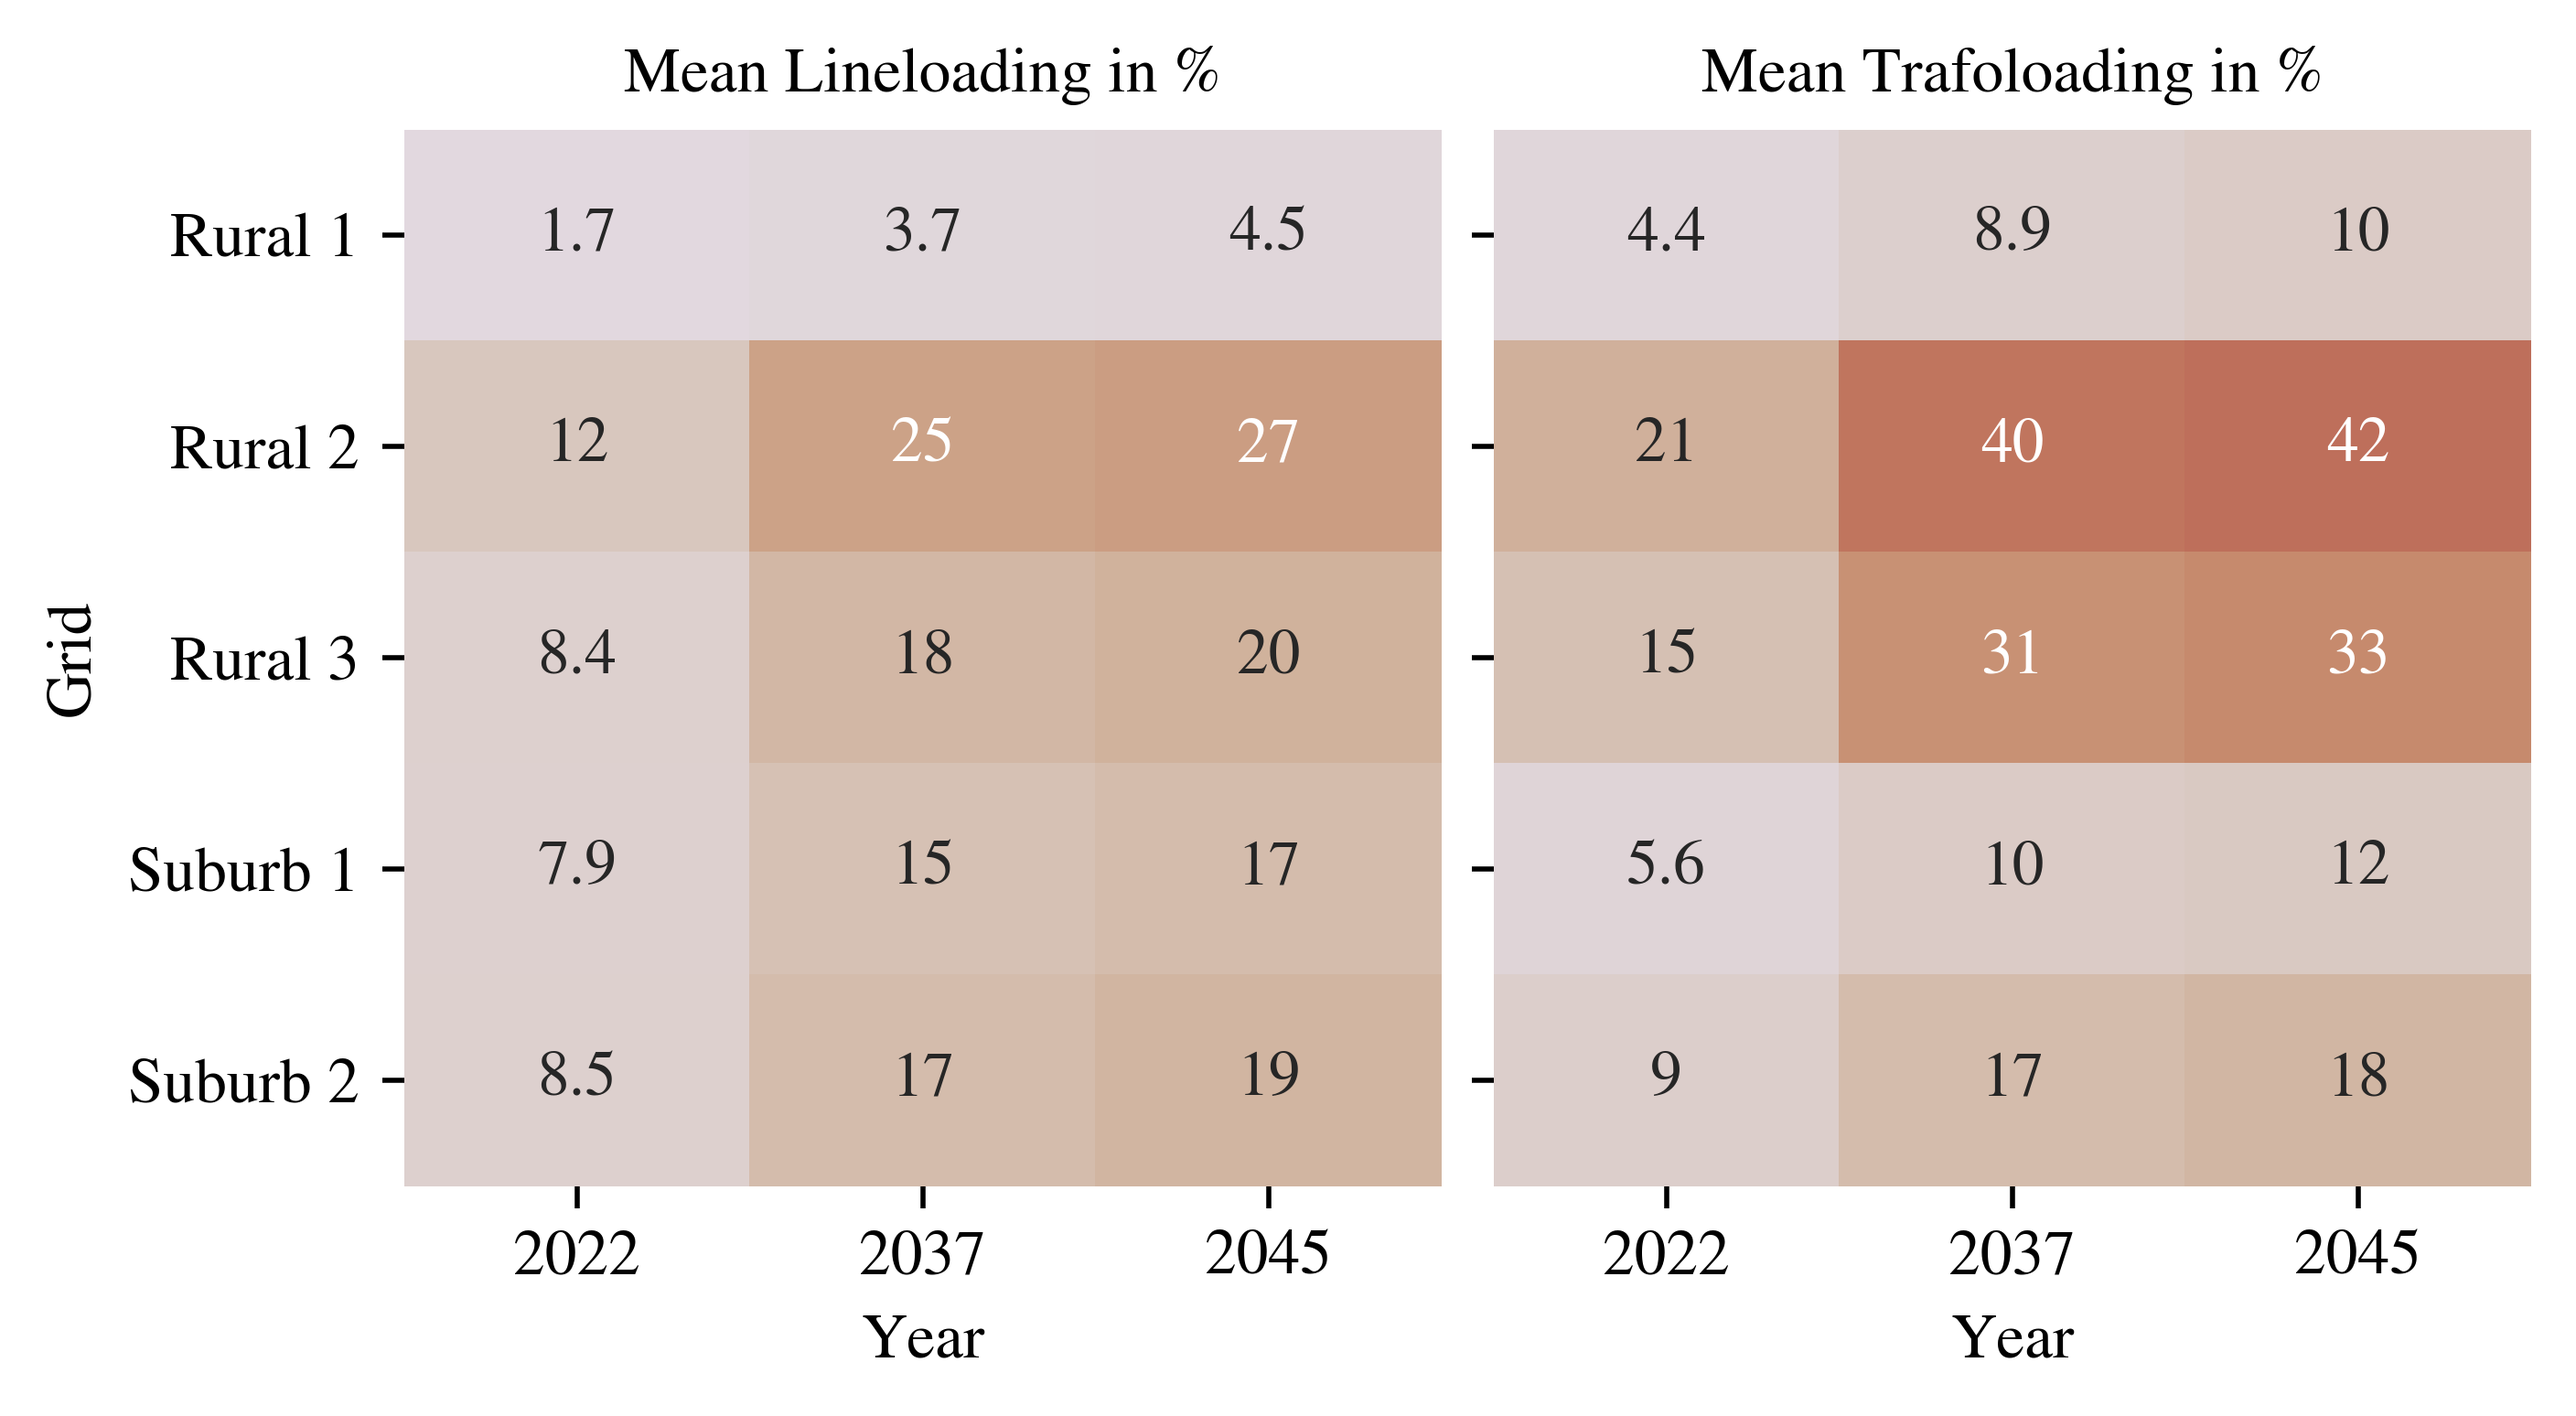
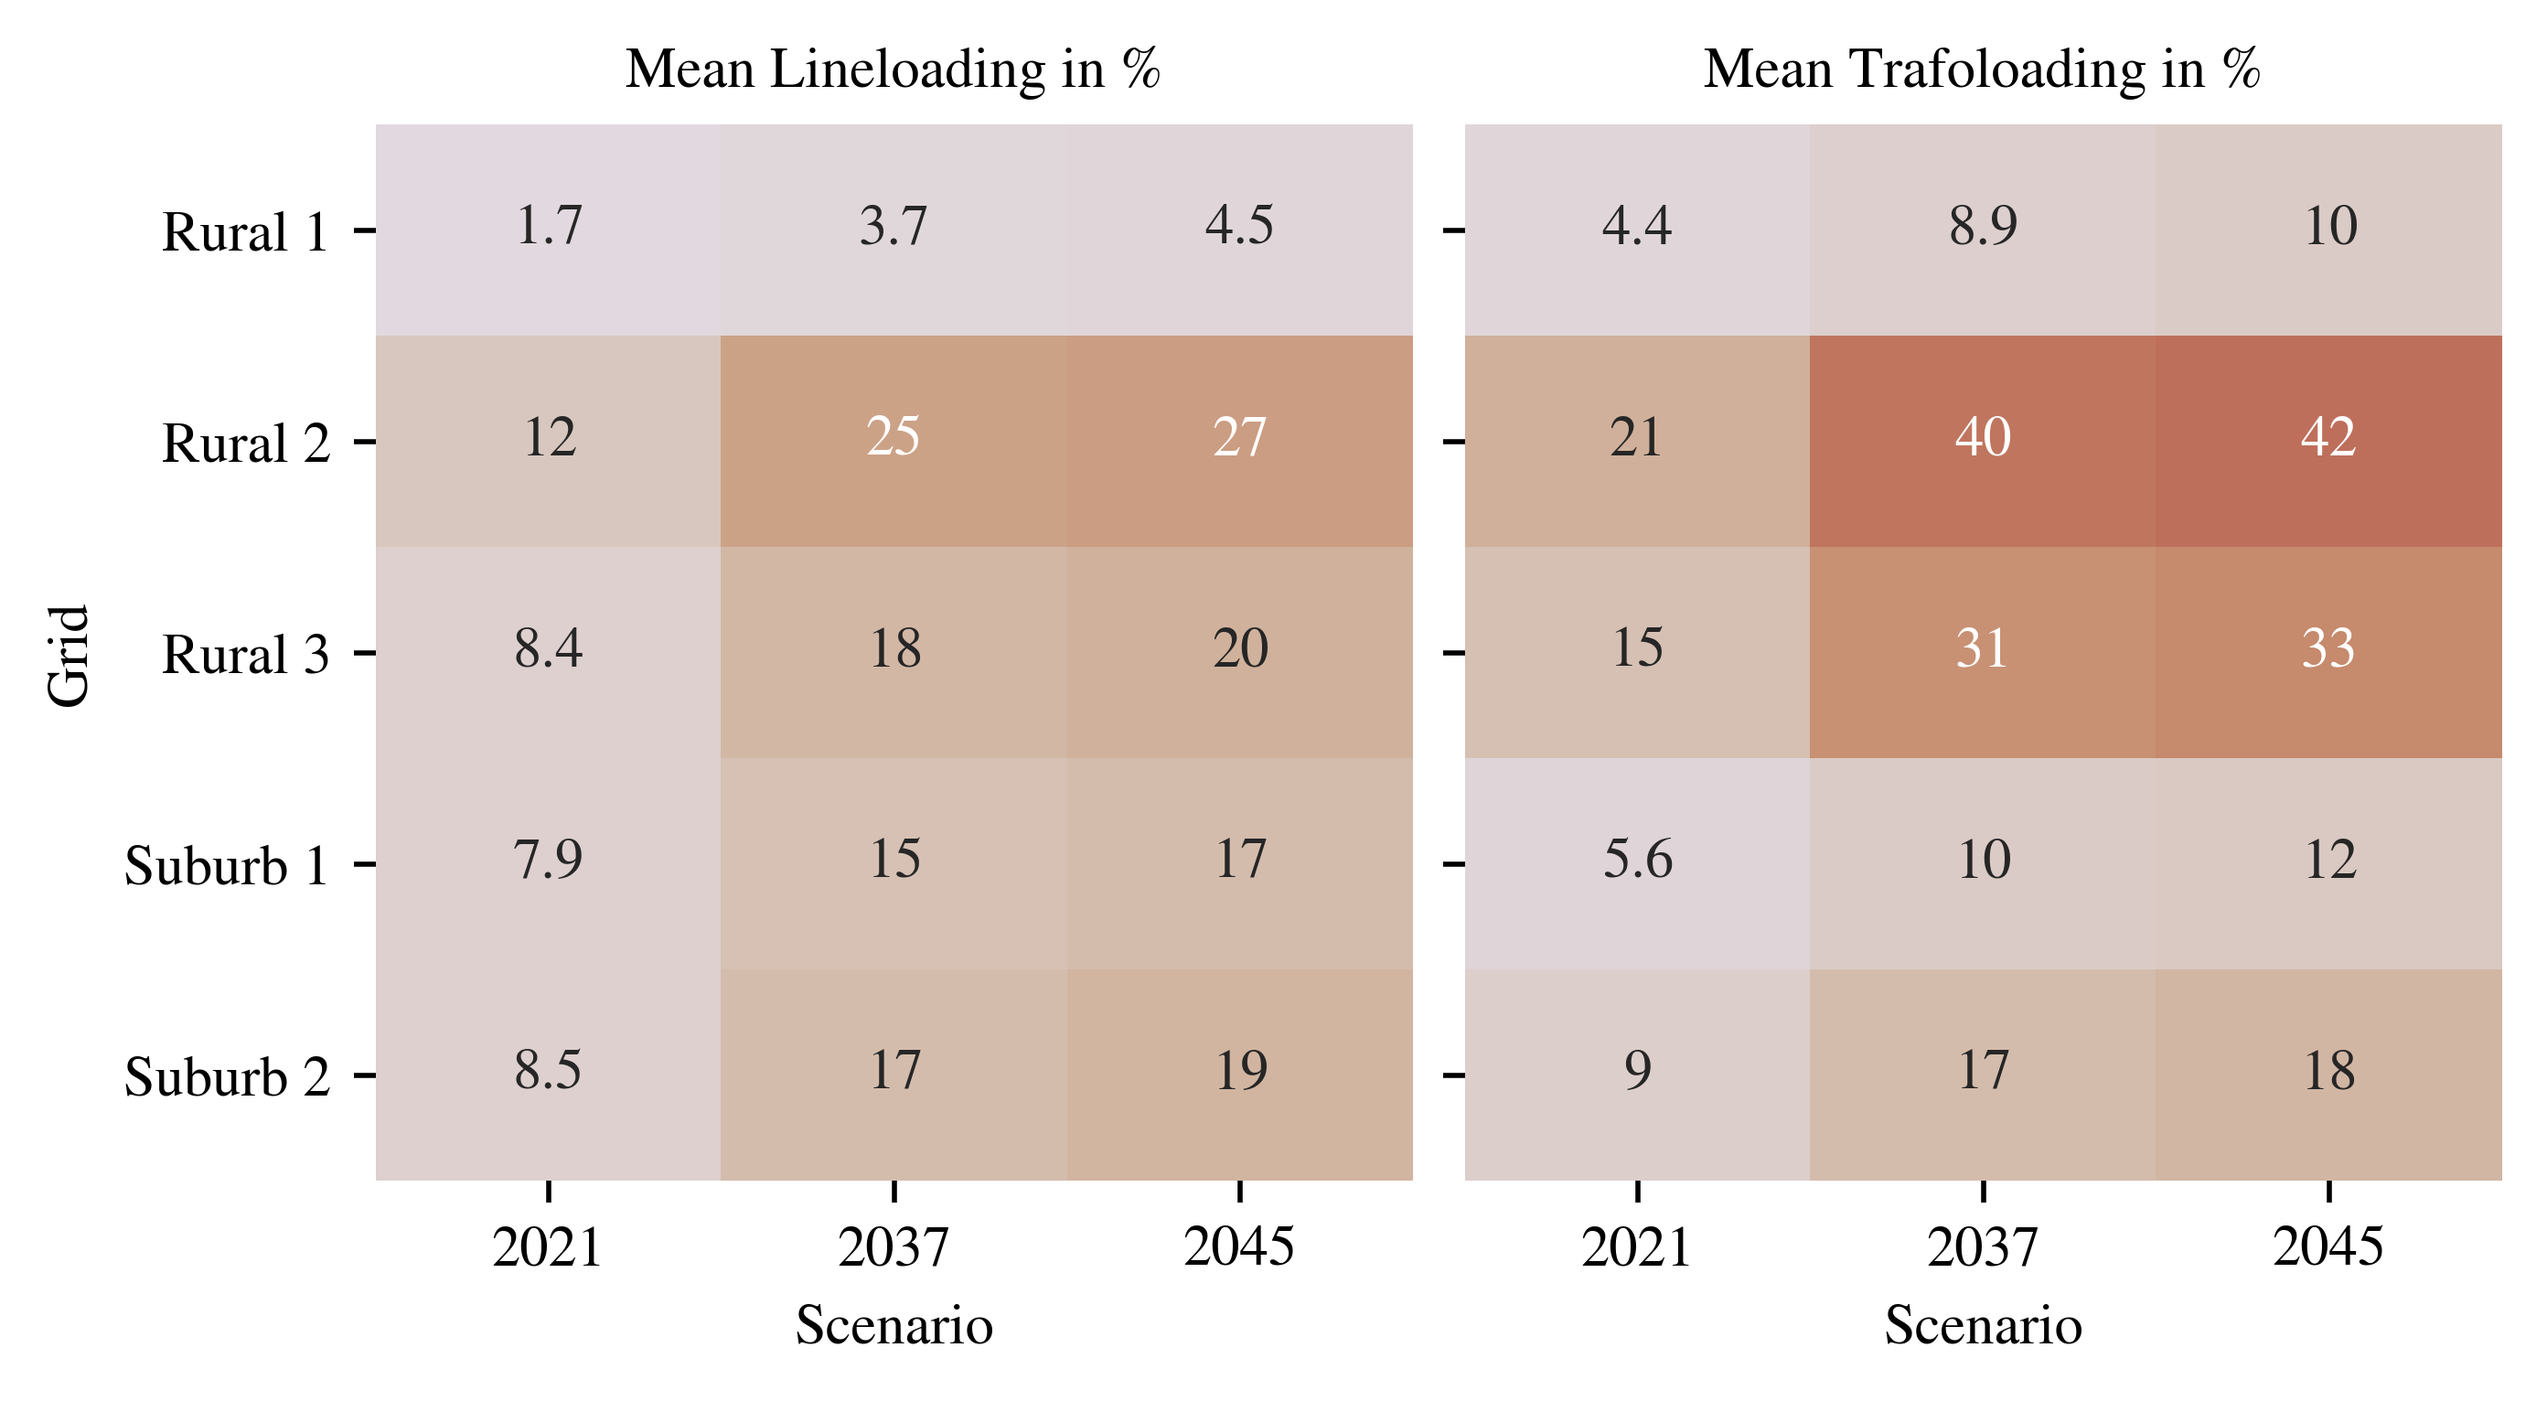
Add grafics

diff --git a/src/main_EVA.py b/src/main_EVA.py
@@ -110,7 +110,7 @@ evaluation.plot_grid_issus_over_time_subplot(eva1=eva['s4101110n8winter'], eva2=
 evaluation.plot_grid_issus_over_time(eva['s4101110n8summer'], save_fig_dir=save_fig_dir+ 'n8_summer_plot_grid_issus_over_time_subplot_n8_winter_full.png')
 '''
 # --- Power and Components loading --- #
-'''
+#'''
 #scenarios = ['4101110', '6111110', '6121110', '6131110']
 #scenarios = ['1000000', '4101110', '6131110', '8133310']
 scenarios = ['C111010', 'C111410', 'C111510', 'C111610', 'C131710']#, 'B111410','A111410'
@@ -120,10 +120,10 @@ eva = load_scenario_data(scenarios, grids=['n8'], seasons=['winter','summer','sp
 
 #evaluation.plot_residualload_grid_issues_subplot_overall_eva_3_plots(eva1=eva['sA111410n8winter'], eva2=eva['sB111410n8winter'], eva3=eva['sC111410n8winter'], save_fig_dir=save_fig_dir+ 'res_grid_sABC_winter_3plots.png')
 evaluation.plot_residualload_grid_issues_subplot_overall_eva_4_plots(eva1=eva['sC111410n8winter'], eva2=eva['sC111510n8winter'], eva3=eva['sC111610n8winter'], eva4=eva['sC131710n8winter'], save_fig_dir=save_fig_dir+ 'res_grid_s4567_C_winter_4plots.png')
-evaluation.plot_residualload_grid_issues_subplot_overall_eva_4_plots(eva1=eva['sC111410n8summer'], eva2=eva['sC111510n8summer'], eva3=eva['sC111610n8summer'], eva4=eva['sC131710n8summer'], save_fig_dir=save_fig_dir+ 'res_grid_s4567_C_summer_4plots.png')
-evaluation.plot_residualload_grid_issues_subplot_overall_eva_4_plots(eva1=eva['sC111410n8spring'], eva2=eva['sC111510n8spring'], eva3=eva['sC111610n8spring'], eva4=eva['sC131710n8spring'], save_fig_dir=save_fig_dir+ 'res_grid_s4567_C_spring_4plots.png')
-evaluation.plot_residualload_grid_issues_subplot_overall_eva_4_plots(eva1=eva['sC111410n8autumn'], eva2=eva['sC111510n8autumn'], eva3=eva['sC111610n8autumn'], eva4=eva['sC131710n8autumn'], save_fig_dir=save_fig_dir+ 'res_grid_s4567_C_autumn_4plots.png')
-'''
+#evaluation.plot_residualload_grid_issues_subplot_overall_eva_4_plots(eva1=eva['sC111410n8summer'], eva2=eva['sC111510n8summer'], eva3=eva['sC111610n8summer'], eva4=eva['sC131710n8summer'], save_fig_dir=save_fig_dir+ 'res_grid_s4567_C_summer_4plots.png')
+#evaluation.plot_residualload_grid_issues_subplot_overall_eva_4_plots(eva1=eva['sC111410n8spring'], eva2=eva['sC111510n8spring'], eva3=eva['sC111610n8spring'], eva4=eva['sC131710n8spring'], save_fig_dir=save_fig_dir+ 'res_grid_s4567_C_spring_4plots.png')
+#evaluation.plot_residualload_grid_issues_subplot_overall_eva_4_plots(eva1=eva['sC111410n8autumn'], eva2=eva['sC111510n8autumn'], eva3=eva['sC111610n8autumn'], eva4=eva['sC131710n8autumn'], save_fig_dir=save_fig_dir+ 'res_grid_s4567_C_autumn_4plots.png')
+#'''
 
 
 # --- SOCs --- #
@@ -166,7 +166,7 @@ eva = load_scenario_data(scenarios)
 #evaluation.plot_heatmap_componentloading_mean_peak(eva, net_name, columns_scenarios = ['B111410', 'B111510', 'B111610', 'B131710'], x_ticklabels = ['2037_gre', '2037_bal', '2037_mar', '2037_sch'], save_fig_dir=save_fig_dir+'B45_')
 #evaluation.plot_heatmap_componentloading_mean_peak(eva, net_name, columns_scenarios = ['C111410', 'C111510', 'C111610', 'C131710'], x_ticklabels = ['2045_gre', '2045_bal', '2045_mar', '2045_sch'], save_fig_dir=save_fig_dir+'C45_')
 
-evaluation.plot_heatmap_componentloading_mean_peak(eva, net_name, columns_scenarios = ['A111410', 'B111410', 'C111410'], x_ticklabels = ['2022', '2037', '2045'], save_fig_dir=save_fig_dir+'100_greedy')
+evaluation.plot_heatmap_componentloading_mean_peak(eva, net_name, columns_scenarios = ['A111410', 'B111410', 'C111410'], x_ticklabels = ['2021', '2037', '2045'], save_fig_dir=save_fig_dir+'100_greedy')
 '''
 
 # --- Curtailment: PV-Power and Load (Scenario - Grid) --- #
@@ -174,7 +174,7 @@ evaluation.plot_heatmap_componentloading_mean_peak(eva, net_name, columns_scenar
 #scenarios = ['A111410', 'B111410','C111410', 'A111510', 'B111510','C111510', 'A111610', 'B111610','C111610', 'A111710', 'B111710','C111710']
 scenarios = ['A111410', 'B111410','C111410', 'A111510', 'B111510','C111510', 'A111610', 'B111610','C111610', 'A131710', 'B131710','C131710']
 eva = load_scenario_data(scenarios)
-evaluation.plot_heatmap_curtailed_power(eva, net_name, columns_scenarios = ['A111410', 'B111410','C111410'], x_ticklabels = ['2022', '2037', '2045'], save_fig_dir=save_fig_dir+'200_greedy_')
+evaluation.plot_heatmap_curtailed_power(eva, net_name, columns_scenarios = ['A111410', 'B111410','C111410'], x_ticklabels = ['2021', '2037', '2045'], save_fig_dir=save_fig_dir+'200_greedy_')
 #evaluation.plot_heatmap_curtailed_power(eva, net_name, columns_scenarios = ['A111410', 'B111410','C111410'], x_ticklabels = ['2022_gre', '2037_gre', '2045_gre'], save_fig_dir=save_fig_dir+'4')
 #evaluation.plot_heatmap_curtailed_power(eva, net_name, columns_scenarios = ['A111510', 'B111510','C111510'], x_ticklabels = ['2022_bal', '2037_bal', '2045_bal'], save_fig_dir=save_fig_dir+'5')
 #evaluation.plot_heatmap_curtailed_power(eva, net_name, columns_scenarios = ['A111610', 'B111610','C111610'], x_ticklabels = ['2022_mar', '2037_mar', '2045_mar'], save_fig_dir=save_fig_dir+'6')
@@ -182,8 +182,8 @@ evaluation.plot_heatmap_curtailed_power(eva, net_name, columns_scenarios = ['A11
 #evaluation.plot_heatmap_curtailed_power(eva, net_name, columns_scenarios = ['A111410', 'A111510', 'A111610', 'A131710'], x_ticklabels = ['2022_gre', '2022_bal', '2022_mar', '2022_sch'], save_fig_dir=save_fig_dir+'A')
 #evaluation.plot_heatmap_curtailed_power(eva, net_name, columns_scenarios = ['B111410', 'B111510', 'B111610', 'B131710'], x_ticklabels = ['2037_gre', '2037_bal', '2037_mar', '2037_sch'], save_fig_dir=save_fig_dir+'B')
 #evaluation.plot_heatmap_curtailed_power(eva, net_name, columns_scenarios = ['C111410', 'C111510', 'C111610', 'C131710'], x_ticklabels = ['2045_gre', '2045_bal', '2045_mar', '2045_sch'], save_fig_dir=save_fig_dir+'C')
-evaluation.plot_heatmap_curtailed_power(eva, net_name, columns_scenarios = ['B111410', 'B111510', 'B111610', 'B131710'], x_ticklabels = ['greedy', 'balanced', 'market', 'residual'], save_fig_dir=save_fig_dir+'300_B_2037_')
-evaluation.plot_heatmap_curtailed_power(eva, net_name, columns_scenarios = ['C111410', 'C111510', 'C111610', 'C131710'], x_ticklabels = ['greedy', 'balanced', 'market', 'residual'], save_fig_dir=save_fig_dir+'300_C_2045_')
+evaluation.plot_heatmap_curtailed_power(eva, net_name, columns_scenarios = ['B111410', 'B111510', 'B111610', 'B131710'], x_ticklabels = ['uncontrolled', 'balanced', 'market', 'residual'], save_fig_dir=save_fig_dir+'300_B_2037_')
+evaluation.plot_heatmap_curtailed_power(eva, net_name, columns_scenarios = ['C111410', 'C111510', 'C111610', 'C131710'], x_ticklabels = ['uncontrolled', 'balanced', 'market', 'residual'], save_fig_dir=save_fig_dir+'300_C_2045_')
 '''
 
 # --- Self-Sufficiancy and PV Consumption --- #
@@ -242,7 +242,7 @@ evaluation.plot_bar_chart_percent(eva, scenarios=scenarios, seasons = seasons, s
 #################################
 ########## Load curves ##########
 #################################
-#'''
+'''
 scenario = ['C111410','C111510','C111610','C131710']
 seasons = ['spring','summer','autumn','winter']
 eva = load_scenario_data(scenario, seasons=seasons)
@@ -251,7 +251,7 @@ eva = load_scenario_data(scenario, seasons=seasons)
 #evaluation.plot_load_curve(eva, scenario=scenario, seasons = seasons, season='autumn', save_fig_dir=save_fig_dir+'400_')
 #evaluation.plot_load_curve(eva, scenario=scenario, seasons = seasons, season='winter', save_fig_dir=save_fig_dir+'400_')
 evaluation.plot_load_curve(eva, scenario=scenario, seasons = seasons, season=None, save_fig_dir=save_fig_dir+'400_')
-#'''
+'''
 
 
 #################################

diff --git a/src/tools/evaluation/Evaluation.py b/src/tools/evaluation/Evaluation.py
@@ -767,8 +767,8 @@ def plot_residualload_grid_issues_subplot_overall_eva_4_plots(eva1, eva2, eva3, 
   time3 = power_3.index
   time4 = power_4.index
 
-  day1 = 1
-  day2 = 7
+  day1 = 2
+  day2 = 2
 
   nts = 4 # number timesteps per hour
 
@@ -993,6 +993,11 @@ def plot_residualload_grid_issues_subplot_overall_eva_4_plots(eva1, eva2, eva3, 
       #ax2[0].set_ylabel('Line- and Trafo-\nloading in p.u.')
       ax2[0].set_ylabel('Line- and\nTrafoloading\nin p.u.')
       ax3[0].set_ylabel('Power in MW')
+      ax0[0].set_title('uncontrolled')
+      ax0[1].set_title('balanced')
+      ax0[2].set_title('market')
+      ax0[3].set_title('residual')
+      
 
   if save_fig_dir is not None:
      plt.savefig(save_fig_dir, bbox_inches='tight', dpi=dpi) 
